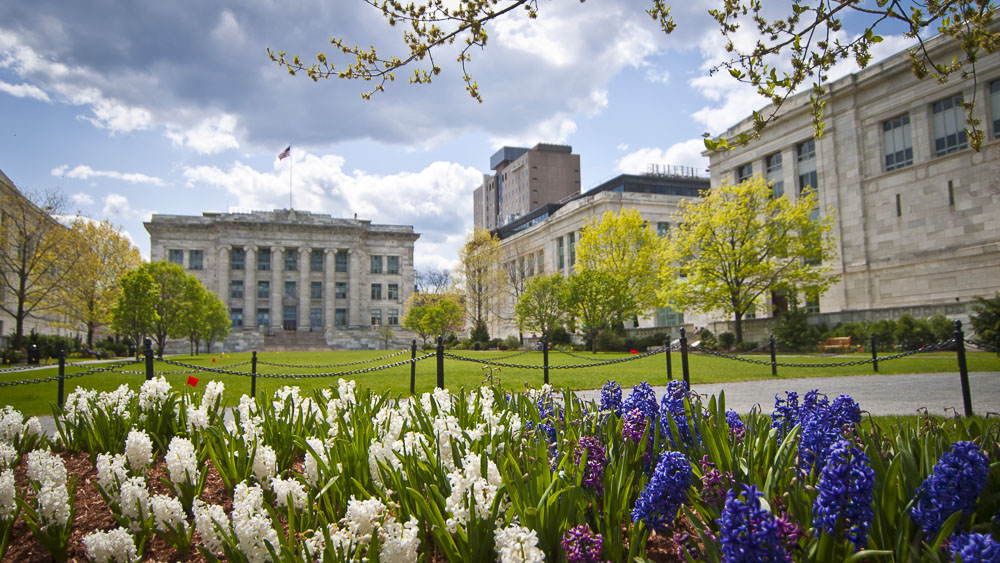
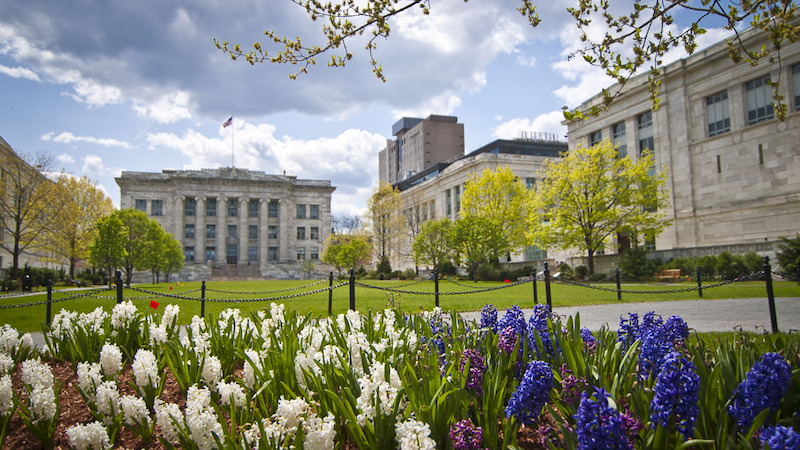
Smaller background image to make it load faster

diff --git a/src/App.css b/src/App.css
@@ -24,7 +24,7 @@ section {
   margin: 1em;
 }
 #background {
-  background: url('https://i.imgur.com/sfsm06I.png');
+  background: url('https://i.imgur.com/HUdSiNr.png');
   background-size: cover;
   width: 100%;
   overflow: auto;
